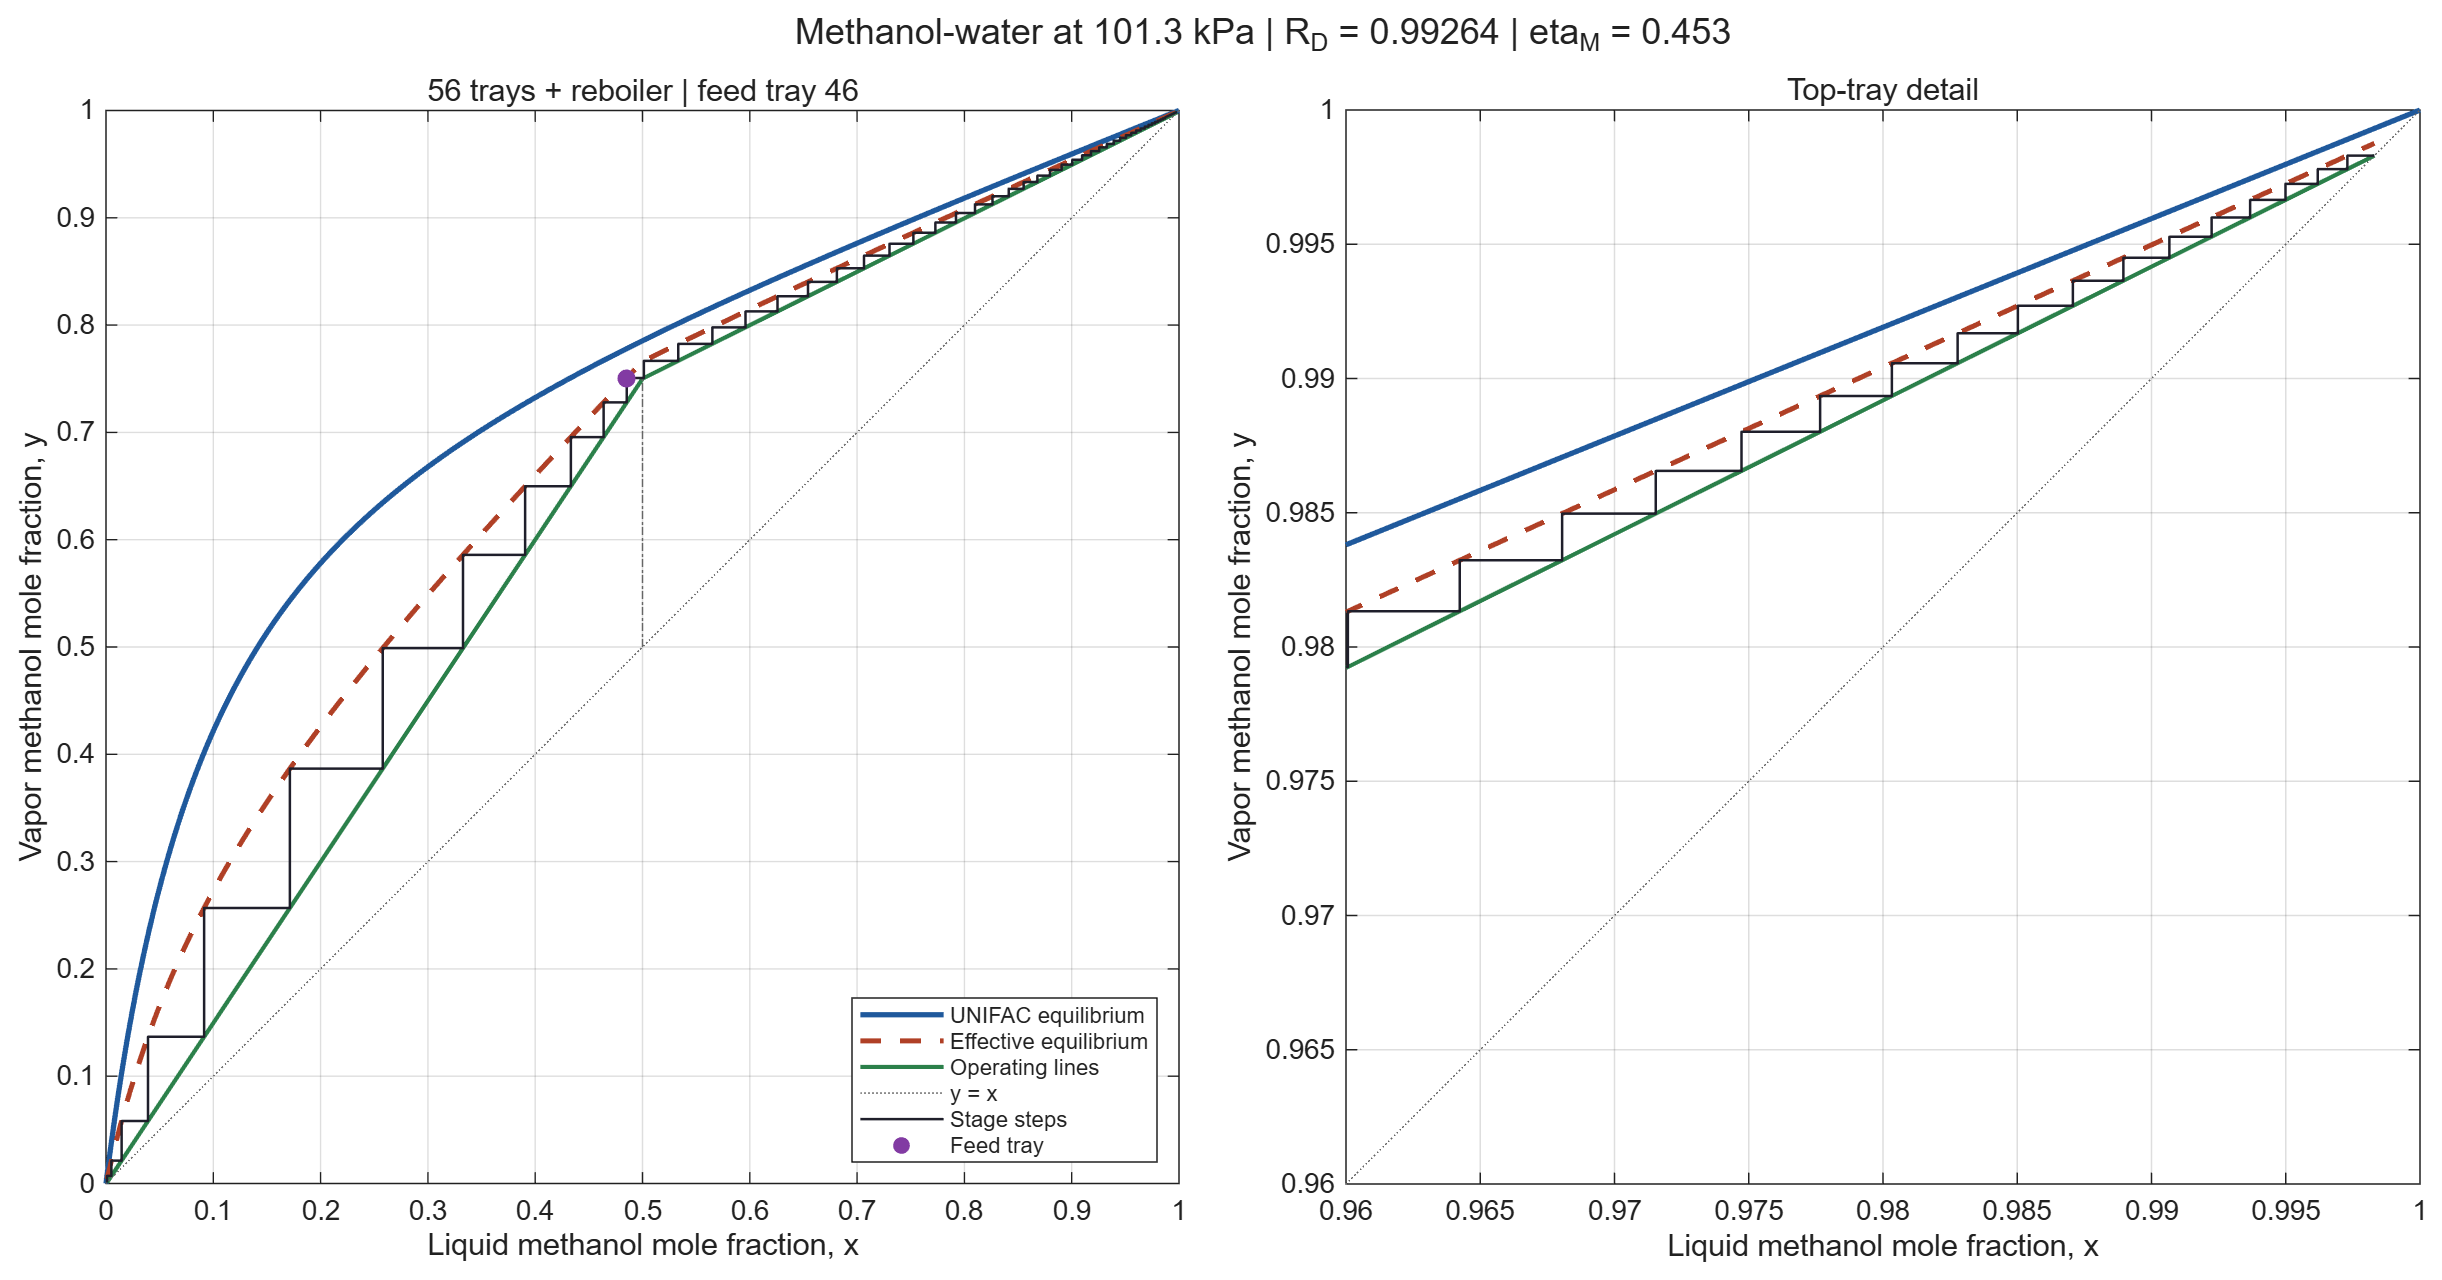
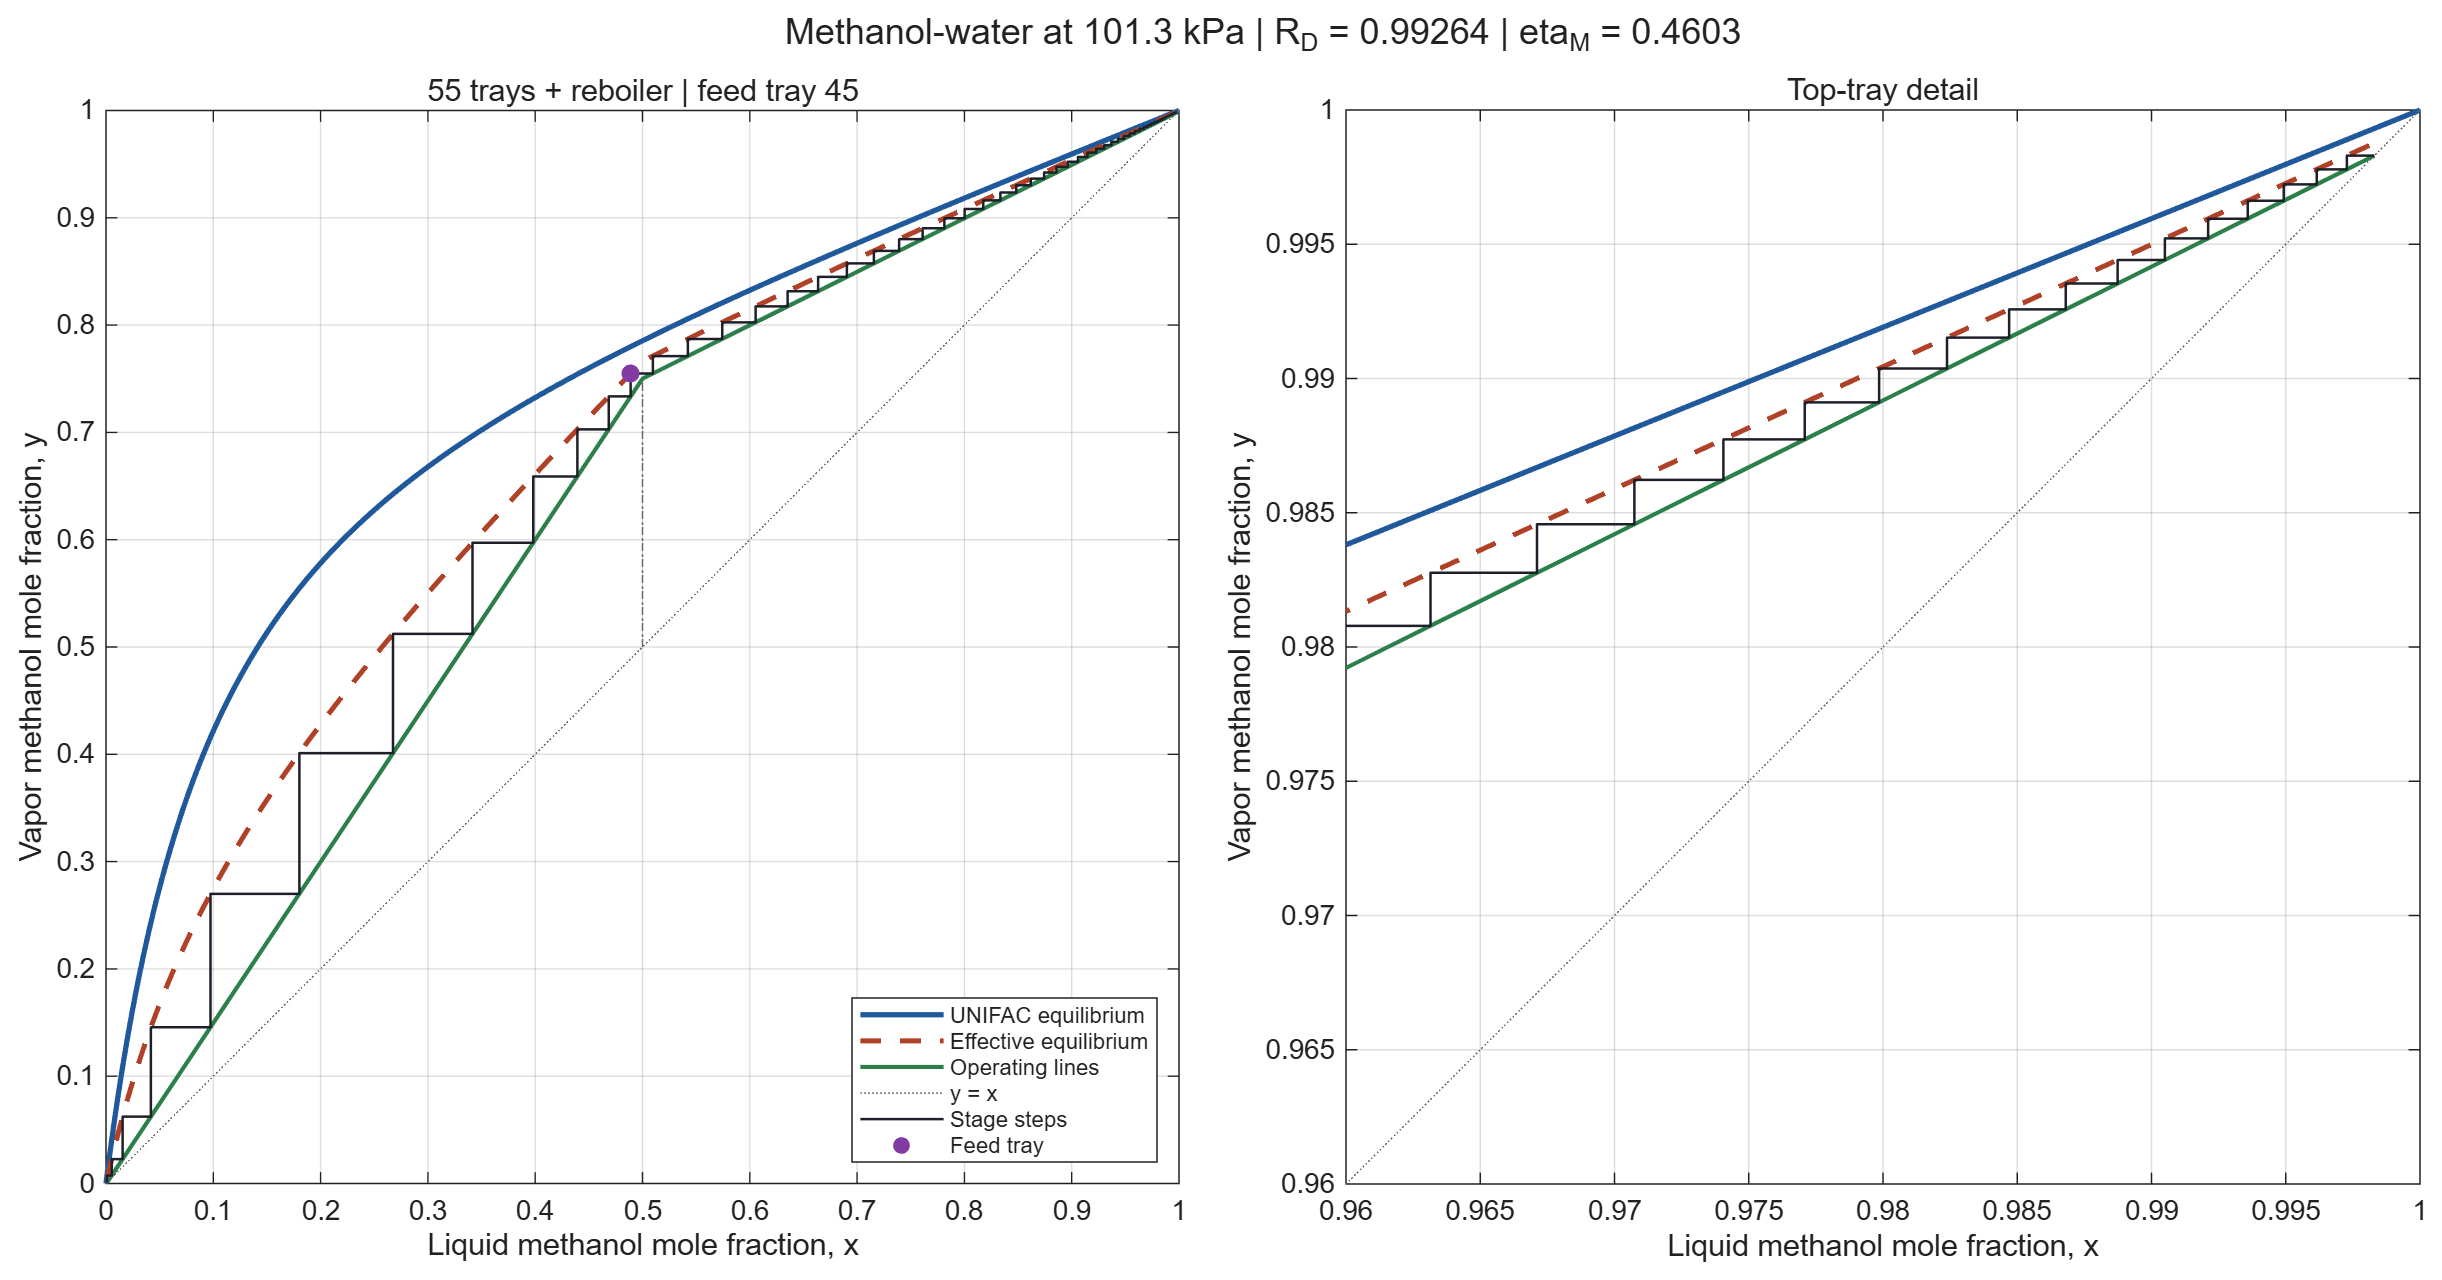
Add files via upload

diff --git a/murphree_mccabe_thiele.m b/murphree_mccabe_thiele.m
@@ -4,17 +4,34 @@ x_F = 0.500;
 x_D = 0.9983;
 x_B = 0.0010;
 R_D = 0.99264;
-eta_M = 0.453;           % First estimate from the O'Connell overall efficiency.
+mu_L_cP = 0.315023036;   % DWSIM liquid viscosity at 355.371 K, x_F = 0.5.
 efficiencyShift = 0.05;  % Absolute efficiency change for the sensitivity cases.
 
 assert(0 < x_B && x_B < x_F && x_F < x_D && x_D < 1 && R_D > 0, ...
     'Expected 0 < x_B < x_F < x_D < 1 and positive reflux.');
-efficiencies = [eta_M; eta_M-efficiencyShift; eta_M+efficiencyShift; 1];
-assert(all(efficiencies > 0 & efficiencies <= 1), ...
-    'All Murphree efficiencies must be in (0, 1].');
 
 vle = unifacVle();
 yEq = griddedInterpolant(vle(:,1), vle(:,2), 'pchip', 'none');
+
+% Use the three-point geometric average of lecture Example 22.3.
+% Columns: x_A, x_B, y_A, y_B. Top and bottom come from Stage 2 and Stage 28.
+yFeedEq = yEq(x_F);
+phaseCompositions = [
+    0.995797    0.0042034  0.9983    0.00169989;
+    x_F         1-x_F      yFeedEq   1-yFeedEq;
+    0.000995682 0.999004   0.007888  0.992112;
+];
+alphaPoints = (phaseCompositions(:,3)./phaseCompositions(:,1)) ...
+    ./ (phaseCompositions(:,4)./phaseCompositions(:,2));
+alphaMean = prod(alphaPoints)^(1/3);
+eta_0 = 0.492*(mu_L_cP*alphaMean)^(-0.245);
+oconnellTrays = ceil(26/eta_0);
+eta_M = round(eta_0,4);
+efficiencies = [eta_M; eta_M-efficiencyShift; eta_M+efficiencyShift; 1];
+assert(all(efficiencies > 0 & efficiencies <= 1), ...
+    'All Murphree efficiencies must be in (0, 1].');
+fprintf('Relative volatility: top %.6f | feed %.6f | bottom %.6f\n', alphaPoints);
+fprintf('Three-point alpha %.6f | eta_0 %.6f | O''Connell trays %d\n', alphaMean, eta_0, oconnellTrays);
 
 % Saturated liquid feed (q = 1). The operating lines meet at x_F.
 rectSlope = R_D/(R_D+1);
@@ -54,7 +71,7 @@ fig = figure('Name','Murphree McCabe-Thiele', 'NumberTitle','off', ...
     'Color','white','Position',[80 100 1260 640]);
 theme(fig,'light');
 layout = tiledlayout(fig,1,2,'TileSpacing','compact','Padding','compact');
-title(layout, sprintf('Methanol-water at 101.3 kPa | R_D = %.5f | eta_M = %.3f', R_D, eta_M));
+title(layout, sprintf('Methanol-water at 101.3 kPa | R_D = %.5f | eta_M = %.4f', R_D, eta_M));
 ax = nexttile(layout);
 handles = drawDiagram(ax, base, eta_M, x_F, x_D, x_B, yEq, yOp);
 axis(ax,'square');

diff --git a/메탄올-물_증류탑_로드맵.md b/메탄올-물_증류탑_로드맵.md
@@ -71,13 +71,13 @@
 - **할 일 ① 최대 기체 속도와 탑경** · DWSIM의 트레이 간격 **0.500 m (19.685 in)**과 탑정 트레이 Stage 2의 물성을 사용한다. 탑정 제품 질량유량과 $R_D$로 전응축기로 들어가는 기체 질량유량과 환류 질량유량을 구한다. DWSIM의 공개 Fair 근사식으로 $K_v$를 구하고, 강의자료 식으로 최대 기체 속도 $u_c$를 계산한다. 예제와 같이 $Q_V/u_c$로 기포 면적을 구하고, 이를 전체 단면적의 70%로 두어 탑경을 계산한다. [DWSIM Fair 상관식](https://dwsim.org/help/main/24-unit-operations.html#entrainment-flooding)
 - **할 일 ② 압력강하와 froth height** · 예제의 체판 구멍과 위어 형상을 적용한다. 구멍 통과 속도로 $h_d$, 환류의 체적유량과 Francis 식으로 $h_l$을 구한다. $h_t=h_d+h_l$를 Pa로 환산하고, 다운커머의 froth height $Z$를 트레이 간격과 비교한다.
 - **읽을 자료** · **7번 6–8쪽**에서 압력수두·다운커머·한계 기체 속도를 확인하고, **27–31쪽 Example 21.6**의 (a)–(c)를 순서대로 따라간다.
-- **완료 기준** · 탑정 기준 $u_c,Q_V,A_b,A_c,D_c,\Delta P_{\mathrm{tray}},Z$와 $Z<l_t$ 판정을 기록한다. 80% 운전 기준의 예비 탑경은 **2.415 m**다. 탑정 트레이의 0.670 kPa를 56–58개에 적용한 전체 압력강하 약 **37.5–38.9 kPa**는 탑저 압력과 정압 가정의 영향을 가늠하는 시작값으로 기록한다.
+- **완료 기준** · 탑정 기준 $u_c,Q_V,A_b,A_c,D_c,\Delta P_{\mathrm{tray}},Z$와 $Z<l_t$ 판정을 기록한다. 80% 운전 기준의 예비 탑경은 **2.415 m**다.
 
 ## 8단계 · 효율을 적용해 실제 트레이 수 산정
 
-- **할 일 ① O’Connell** · 액체 점도 $\mu_L$을 cP로 넣고 상대휘발도 $\alpha$와 함께 $\eta_0=0.492(\mu_L\alpha)^{-0.245}$로 전체 효율을 구한다. 기준안의 **이론 트레이 26개**를 $\eta_0$로 나눈 뒤 올림해 실제 트레이 수를 추정한다. DWSIM 위치 수에는 전응축기와 부분재비기를 각각 하나씩 더한다.
+- **할 일 ① O’Connell** · 강의자료 8번 p.15 예제 22.3처럼 탑정·공급·탑저의 상대휘발도를 기하평균해 $\bar{\alpha}$를 구한다. 액체 점도 $\mu_L$을 cP로 넣고 $\bar{\alpha}$와 함께 $\eta_0=0.492(\mu_L\bar{\alpha})^{-0.245}$로 전체 효율을 구한다. 기준안의 **이론 트레이 26개**를 $\eta_0$로 나눈 뒤 올림해 실제 트레이 수를 추정한다. DWSIM 위치 수에는 전응축기와 부분재비기를 각각 하나씩 더한다.
 - **할 일 ② Murphree 작도** · $\eta_M\approx\eta_0$를 작도의 시작값으로 사용한다. 정류부·탈거부의 유효 평형선 $y_e'=y+\eta_M(y_e-y)$에서 계단을 다시 세고, 부분재비기에는 원래 평형선을 적용한다. 효율을 바꿔 단수와 공급 위치가 얼마나 달라지는지 본다.
-- **후속 검증** · 시간 관계상 DWSIM 제품 사양 확인은 조원과 이어서 진행한다. 시작값은 58개 위치, 공급 위치 47번, 내부 트레이 효율 0.453, 부분재비기 효율 1이다. 탑정 101.3 kPa(abs), 탑저 약 138.8 kPa(abs)에서 $x_D,x_B,q_c,q_r$와 재비기 온도를 정압 기준과 비교한다.
+- **후속 검증** · 시간 관계상 DWSIM 제품 사양 확인은 조원과 이어서 진행한다. 시작값은 57개 위치, 공급 위치 46번, 내부 트레이 효율 0.4603, 부분재비기 효율 1이다. 탑정 압력을 101.3 kPa(abs)로 두고 단별 유량에서 압력강하를 추정해, 적용 전후의 $x_D,x_B,q_c,q_r$와 재비기 온도를 비교한다.
 - **읽을 자료** · **7번 9쪽**의 전체·Murphree 효율, **12–14쪽**의 유효 평형선과 작도, **15쪽**의 O’Connell 상관식을 본다.
 - **완료 기준** · 이론 트레이 수, O’Connell 추정, Murphree 작도 결과를 비교하고 실제 트레이 수와 공급 위치를 기록한다.
 
@@ -96,7 +96,7 @@
 | 2분 | 실측 VLE와 UNIFAC 선정, 공급·제품 사양 |
 | 3분 | McCabe–Thiele 작도, 최소 환류비와 이론단수 |
 | 3분 | DWSIM 제품 사양 확인, CMO 검토와 단수별 열부하 |
-| 3분 | 체판탑 탑경, 다운커머 flooding 점검, 압력강하 추정 |
+| 3분 | 체판탑 탑경, 다운커머 flooding 점검, 단당 압력강하 |
 | 2분 | 트레이 효율, 실제 단수와 공급 위치 |
 
 **3인 분담 예시** · ① 배경·물성·VLE(0–2단계) ② 설계 기준·작도·DWSIM 검증(3–6단계) ③ 체판탑과 효율(7–8단계). 7단계에는 6단계 기준안의 단별 결과를 함께 사용한다.
